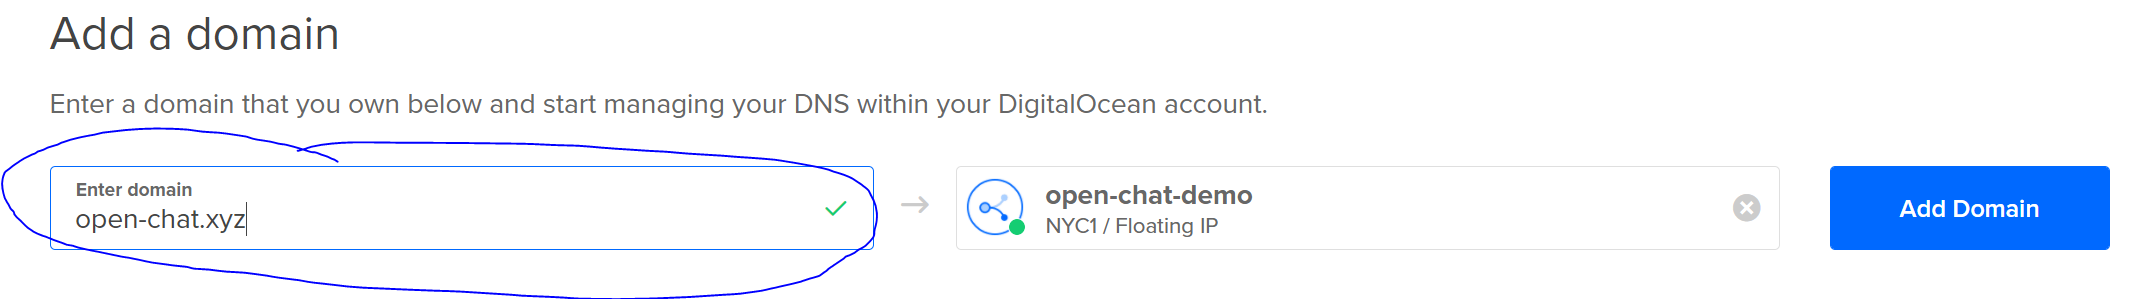
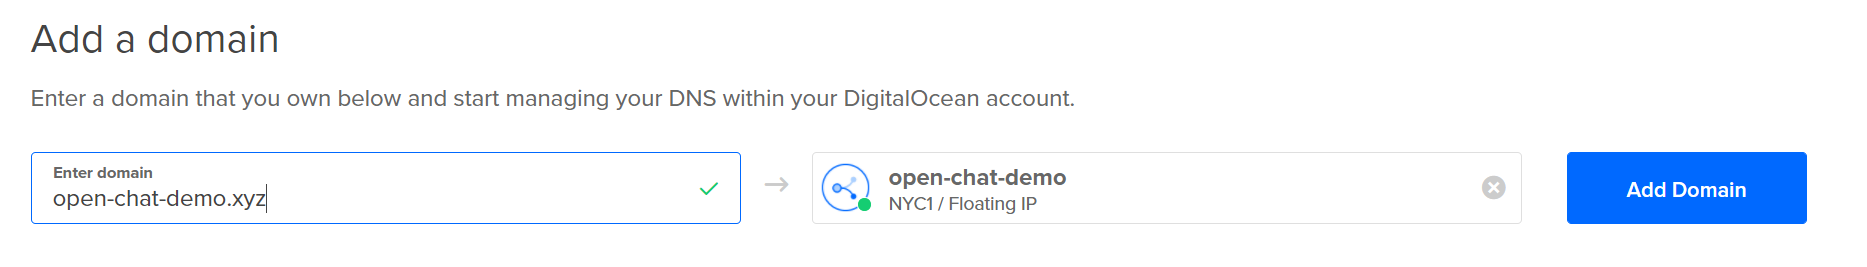
update

diff --git a/README.md b/README.md
@@ -1,3 +1,9 @@
+1. [What's Covered in this Document](#What's-Covered-in-this-Document)
+1. [Create Droplet with SSH login](#Create-Droplet-with-SSH-login)
+1. [Install Server Dependencies](#Install-Server-Dependencies)
+
+TODO...
+
 # What's Covered in this Document
 Everything involved in publishing a django website equipped with WebSockets using Django Channels. 
 
@@ -19,15 +25,8 @@ I use [Digital Ocean](https://m.do.co/c/c87161ed324c) as the hosting provider. T
     1. Configuring systemd to execute bash script on server boot
 1. HTTPS with [letsencrypt](https://letsencrypt.org/)
 
-## Legend
-1. [Create Droplet with SSH login](#Create-Droplet-with-SSH-login)
-1. [Install Server Dependencies](#Install-Server-Dependencies)
 
-
-
-# Create Droplet with SSH login
-Digital ocean can generate an SSH key for you automatically or you can do it yourself. It doesn't matter. Just make sure you save the SSH key to you computer somewhere you won't lose it. And make a backup because if you lose it you will not be able to get into your server again.
-
+# Create Digital Ocean Droplet with SSH login
 
 #### Create a new droplet
 <div class="row  justify-content-center">
@@ -70,7 +69,7 @@ Write down your server ip somewhere. You'll need this for logging into your serv
 <br>
 
 # Log into Droplet with SSH and FTP
-Personall I like to use [MobaXterm](https://mobaxterm.mobatek.net/) (it's free) to log into my servers. It's great because you can SSH and FTP from the same window. It's just convenient. 
+Personally I like to use [MobaXterm](https://mobaxterm.mobatek.net/) (it's free) to log into my servers. It's great because you can SSH and FTP from the same window. It's very convenient. 
 
 #### Create a new session
 <div class="row  justify-content-center">
@@ -123,6 +122,7 @@ Run these commands in the SSH terminal.
 `ALTER ROLE django SET timezone TO 'UTC';`
 
 `GRANT ALL PRIVILEGES ON DATABASE django_db TO django;`
+
 `\q`
 
 `sudo -H pip3 install --upgrade pip`
@@ -131,7 +131,7 @@ Run these commands in the SSH terminal.
 
 `sudo apt install git-all`
 
-`sudo apt install libgl1-mesa-glx` # cv2 issue
+`sudo apt install libgl1-mesa-glx` Resolve cv2 issue
 
 `adduser django`
 
@@ -139,7 +139,7 @@ Run these commands in the SSH terminal.
 
 `cd /home/django/`
 
-`mkdir CodingWithMitchChat`
+`mkdir CodingWithMitchChat` You can replace "CodingWithMitchChat" with your project name. 
 
 `cd CodingWithMitchChat`
 
@@ -153,29 +153,29 @@ Run these commands in the SSH terminal.
 # Publish your Project to Github
 1. Log into Github.com
 1. Create a new repository [https://github.com/new](https://github.com/new)
-1. Open a cmd prompt to your local project directory. Ex: `D:\DjangoProjects\ChatServerPlayground\venv\src`
+1. Open a cmd prompt to your local project directory. 
+  - Ex: `D:\DjangoProjects\ChatServerPlayground\venv\src`
 1. `git init`
 1. Update gitignore. I suggest copying mine: [https://github.com/mitchtabian/Codingwithmitch-Chat/blob/master/.gitignore](https://github.com/mitchtabian/Codingwithmitch-Chat/blob/master/.gitignore)
 1. `git add .`
 1. `git commit -m "first commit"`
-1. `git remote add origin https://github.com/mitchtabian/testoinggfmdgmdfk.git`
+1. `git remote add origin https://github.com/mitchtabian/testoinggfmdgmdfk.git` Replace with your git project url.
 1. `git push -u origin master`
 
 #### Create a "production" branch
-The production branch requires different settings. Things like static files will be served from AWS via 'Digital Ocean Spaces'. So our static file configuration completely changes.
+The production branch requires different settings. For example things like static files will be served from AWS via 'Digital Ocean Spaces'. So our static file configuration completely changes compared to development. 
+
+Because of this, I recommend maintaining a "prod" branch. We will deploy the prod branch to the server.
 
 ```git
-// Checkout master
 git checkout master
 ```
 
 ```git
-// Create the new "production" branch
 git checkout -b prod
 ```
 
 ```git
-// push new branch to remote
 git push origin prod
 ```
 
@@ -183,10 +183,10 @@ We will come back to the `prod` branch and make changes to it before we publish.
 
 
 # Hosting Static Files with Digital Ocean Spaces
-1. Create a new digital ocean project named "open-chat-demo"
-1. Create new Digital Ocean Space with the name "open-chat-dev" or whatever: [https://cloud.digitalocean.com/spaces](https://cloud.digitalocean.com/spaces)
+1. Create new Digital Ocean Space with the name "open-chat-dev"
+  - [https://cloud.digitalocean.com/spaces](https://cloud.digitalocean.com/spaces)
 1. Create a API key here [https://cloud.digitalocean.com/account/api/tokens](https://cloud.digitalocean.com/account/api/tokens)
-1. create a folder inside the space and call it "open-chat-static"
+1. Create a folder inside the space and call it "open-chat-static" 
 
 ## Update 'prod' branch
 Make the necessary changes to the prod branch.
@@ -279,7 +279,7 @@ var ws_path = ws_scheme + '://' + window.location.host + ":8001/"; // PRODUCTION
     - Leave the `__init__.py` file. Just delete any other migrations.
 
 #### Update requirements.txt
-Make sure to copy my requirements.txt file so you have all the necessary dependencies: (requirements.txt)[https://github.com/mitchtabian/Codingwithmitch-Chat/blob/prod/requirements.txt].
+Make sure to copy my requirements.txt file so you have all the necessary dependencies: [requirements.txt](https://github.com/mitchtabian/Codingwithmitch-Chat/blob/prod/requirements.txt).
 
 This requirements.txt file has some extra dependencies that we didn't have in development. They can all be installed manually using pip but I added them to `requirements.txt` so you wouldn't have to. This is what was added:
 1. `gunicorn psycopg2-binary` (required for postgres)
@@ -320,7 +320,7 @@ Open MobaXterm and log into your server via SSH.
 
 `python manage.py collectstatic`
 
-**At this point you can check in the Digital Ocean spaces console and you should see the static files have been places there.**
+**At this point you can check in the Digital Ocean spaces console and you should see the static files have been placed there.**
 <div class="row  justify-content-center">
   <img class="img-fluid text-center" src = "https://github.com/mitchtabian/HOWTO-django-channels-daphne/blob/master/images/after_collect_static.PNG">
 </div>
@@ -350,7 +350,7 @@ visit [http://<your_ip_address>:8000/](http://<your_ip_address>:8000/)
 
 
 # Creating systemd Socket and Service Files for Gunicorn
-We've tested to see if the application will run if we run the server manually, but this isn't how we want it to be running. We want the application to run in a service so it automatically starts/restarts when it needs to. Like when we restart the server or it goes down for some reason.
+We've tested to see if the application will run if we run the app manually, but this isn't how we want it to be running. We want the application to run in a service so it automatically starts/restarts when it needs to. Like when we restart the server or it goes down for some reason.
 
 One way you can do this is with gunicorn. Run this command you'll see that gunicorn can run the application:
 ```
@@ -424,9 +424,9 @@ WantedBy=multi-user.target
 #### Configure Nginx to Proxy Pass to Gunicorn
 We'll be using Nginx as an HTTP Proxy. It helps to protect our website from attackers. You can read more about it here [https://docs.gunicorn.org/en/stable/deploy.html](https://docs.gunicorn.org/en/stable/deploy.html). We need to configure Nginx and gunicorn to work together.
 
-`cd /etc/nginx/sites-available`
+Navigate to `/etc/nginx/sites-available`
 
-Create file CodingWithMitchChat
+Create file `CodingWithMitchChat`
 ```
 server {
     server_name <your_ip_address>;
@@ -446,7 +446,7 @@ server {
 ```
 
 
-Update Nginx config file at /etc/nginx/nginx.conf so we can upload large files (images)
+Update Nginx config file at `/etc/nginx/nginx.conf` so we can upload large files (images)
 ```
 http{
 	...
@@ -489,6 +489,8 @@ Here are some commands you can use to look at the server logs. **These commands 
 
 
 # Install and Setup Redis
+Redis is used as a kind of "messaging queue" for django channels. Read more about it here [https://channels.readthedocs.io/en/stable/topics/channel_layers.html?highlight=redis#redis-channel-layer](https://channels.readthedocs.io/en/stable/topics/channel_layers.html?highlight=redis#redis-channel-layer)
+
 `sudo apt install redis-server`
 
 Navigate to `/etc/redis/`
@@ -533,6 +535,7 @@ From the Django channels docs:
 create `asgi.py` in `/home/django/CodingWithMitchChat/src/CodingWithMitchChat` with this command:
 
 'django' must be the owner of this file.
+
 `cat > asgi.py` 
 
 Paste in the following:
@@ -562,7 +565,7 @@ You can open the file to confirm everything looks good.
 <br>
 
 # Deploying Django Channels with Daphne & Systemd
-Gunicorn is what we use to run the WSGI application - which is our django app. To run the ASGI application we need something else, an additional tool. Daphne was built for Django channels and is the simplest. We can start daphne using a systemd service when the server boots, just like we start gunicorn and then gunicorn starts the django app.
+Gunicorn is what we use to run the WSGI application - which is our django app. To run the ASGI application we need something else, an additional tool. **[Daphne](https://github.com/django/daphne)** was built for Django channels and is the simplest. We can start daphne using a systemd service when the server boots, just like we start gunicorn and then gunicorn starts the django app.
 
 Here are some references I found helpful. The information on this is scarce:
 1. [https://channels.readthedocs.io/en/latest/deploying.html](https://channels.readthedocs.io/en/latest/deploying.html)
@@ -601,7 +604,7 @@ WantedBy=multi-user.target
 
 You should see something like this. If you don't, go back and redo this section. Check that your filepaths are all **exactly the same as mine in `daphne.service`**. That is the #1 reason people have issues.
 <div class="row  justify-content-center">
-  <img class="img-fluid text-center" src = "https://github.com/mitchtabian/HOWTO-django-channels-daphne/blob/master/images/daphne_status.PNG">
+  <img class="img-fluid text-center" src = "https://github.com/mitchtabian/HOWTO-django-channels-daphne/blob/master/images/daphe_status.PNG">
 </div>
 <br>
 
@@ -622,7 +625,7 @@ Save and close.
 Might have to enable it to be run as a script (not sure if this is needed)
 `chmod u+x /root/boot.sh`
 
-You can read more about shell scripting on your own time. Here is something I found to be helpful:
+If you want to read more about shell scripting, I found this helpful:
 [https://ostechnix.com/fix-exec-format-error-when-running-scripts-with-run-parts-command/](https://ostechnix.com/fix-exec-format-error-when-running-scripts-with-run-parts-command/).
 
 
@@ -642,15 +645,19 @@ Save and close.
 
 `systemctl daemon-reload`
 
-`sudo systemctl start on_boot` Start it
+##### Start it
+`sudo systemctl start on_boot` 
 
-`sudo systemctl enable on_boot` Enable it to run at boot
+##### Enable it to run at boot
+`sudo systemctl enable on_boot` 
 
-`ufw allow 8001` Allow daphne service through firewall
+##### Allow daphne service through firewall
+`ufw allow 8001` 
 
+##### Restart the server
 `sudo shutdown -r now`
 
-Check the status of `on_boot.service`.
+##### Check the status of `on_boot.service`
 `systemctl status on_boot.service`
 
 Should see this. If not, check logs: `sudo journalctl -u on_boot.service`
@@ -659,12 +666,12 @@ Should see this. If not, check logs: `sudo journalctl -u on_boot.service`
 </div>
 <br>
 
-Check if the daphne service started when the server started:
+##### Check if the daphne service started when the server started:
 `systemctl status daphne.service`
 
 Should see this. If not, check logs: `sudo journalctl -u daphne.service`
 <div class="row  justify-content-center">
-  <img class="img-fluid text-center" src = "https://github.com/mitchtabian/HOWTO-django-channels-daphne/blob/master/images/daphe_service_status.PNG">
+  <img class="img-fluid text-center" src = "https://github.com/mitchtabian/HOWTO-django-channels-daphne/blob/master/images/daphne_service_status.PNG">
 </div>
 <br>
 
@@ -754,8 +761,17 @@ It can take some time to see your website available at the custom domain. I don'
 
 
 # HTTPS (If you have a domain registered and it's working)
-**Do not do this step unless you're able to visit your website using the custom domain.** For example visiting http://open-chat-demo.xyz/.
+**Do not do this step unless you're able to visit your website using the custom domain.**
 
+For example visiting http://open-chat-demo.xyz/.
+
+Visiting your domain you should see this
+<div class="row  justify-content-center">
+  <img class="img-fluid text-center" src = "https://github.com/mitchtabian/HOWTO-django-channels-daphne/blob/master/images/welcome_to_nginx.PNG">
+</div>
+<br>
+
+#### Install certbot
 HTTPS is a little more difficult to set up when using Django Channels. Nginx and Daphne require some extra configuring.
 
 `sudo apt install certbot python3-certbot-nginx`
